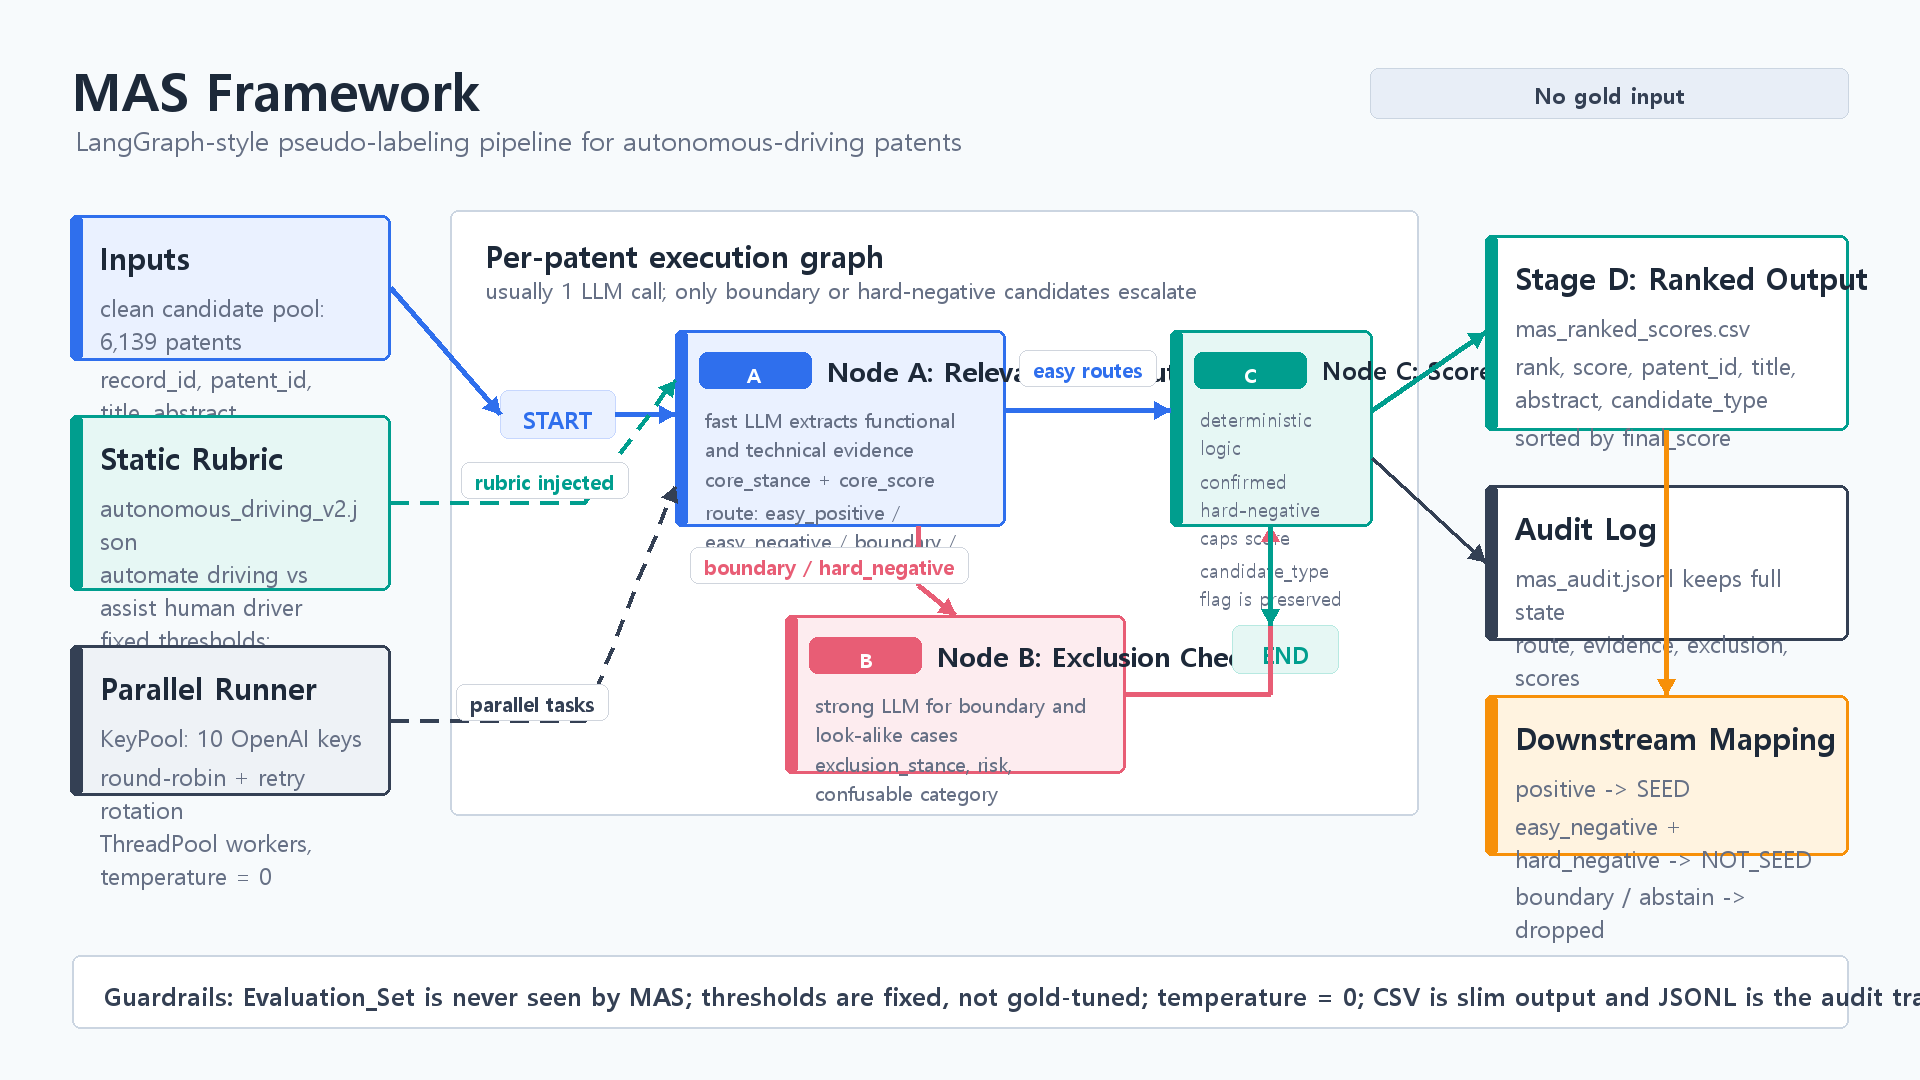
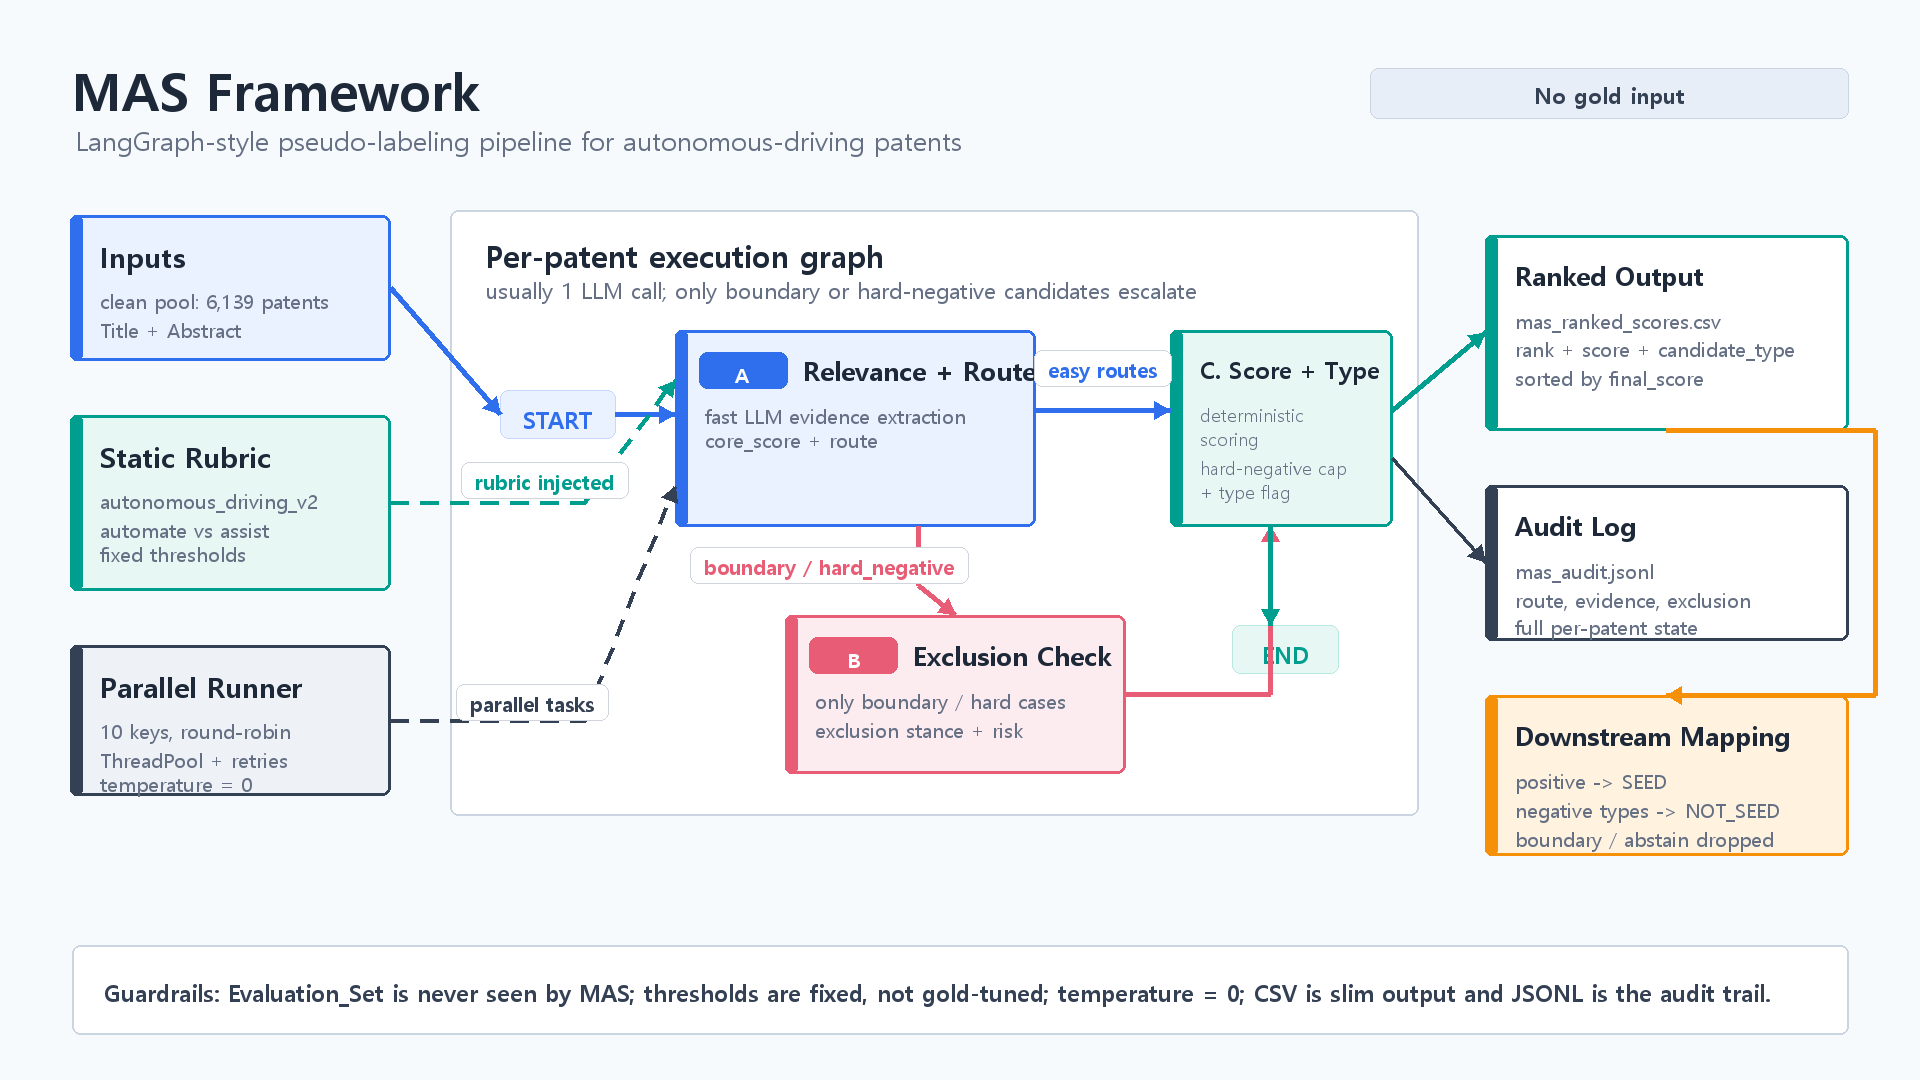
calibrate_eval for unified models + notebook calibration cell
- calibrate_eval rebuilt for the unified experiment: loads scibert_{snorkel_uni,
  mas_uni}, rebuilds val split via from_labeled_all + default assemble, tunes
  threshold on val, re-reports gold @user.5 vs @user with auc_seed_vs_hard + ROC/PR
- notebook: add cell 8 calibration (no retrain)

diff --git a/figures/generate_framework_figures.py b/figures/generate_framework_figures.py
@@ -254,25 +254,22 @@ def build_overall():
 
     # Input stack
     card(draw, (70, 210, 390, 352), "Candidate Pool", [
-        "Training_Set.csv - 6,195 patents",
-        "unlabeled Title + Abstract",
+        "Training_Set.csv",
+        "6,195 unlabeled patents",
     ], COLORS["data"], fill=COLORS["blue_soft"], title_size=27)
     card(draw, (70, 410, 390, 552), "Gold Benchmark", [
-        "Evaluation_Set.csv - 1,208 rows",
-        "313 SEED / 895 NOT_SEED",
-        "test only",
+        "Evaluation_Set.csv",
+        "1,208 gold rows - test only",
     ], COLORS["eval"], fill=COLORS["violet_soft"], title_size=27)
     card(draw, (70, 610, 390, 752), "OOD Negatives", [
-        "5 other domains - 6,296 rows",
-        "fixed anti-seed pool",
-        "computer vision = hard negative",
+        "5 domains, 6,296 rows",
+        "fixed NOT_SEED pool",
     ], COLORS["guard"], fill=COLORS["gray_soft"], title_size=27)
 
     card(draw, (430, 350, 730, 572), "Preprocess", [
-        "normalize title + abstract",
-        "text-leakage Jaccard check",
-        "drop 56 leaking train patents",
-        "clean candidate pool = 6,139",
+        "Title + Abstract only",
+        "remove 56 leakage cases",
+        "clean pool = 6,139",
     ], COLORS["data"], fill="#FFFFFF")
 
     # Labeling lanes
@@ -280,21 +277,18 @@ def build_overall():
     draw.text((810, 230), "Two pseudo-labeling arms", font=font(26, "bold"), fill=COLORS["ink"])
     draw.text((810, 265), "same candidate pool, different labeler", font=font(20), fill=COLORS["muted"])
     card(draw, (820, 315, 1148, 477), "Snorkel Arm", [
-        "labeling functions",
-        "LabelModel",
-        "snorkel_label: 1 / 0 / ABSTAIN",
+        "LFs + LabelModel",
+        "label: 1 / 0 / ABSTAIN",
     ], COLORS["snorkel"], fill=COLORS["pink_soft"], label="A", title_size=27, body_size=20)
     card(draw, (820, 560, 1148, 722), "MAS Arm", [
         "rubric-guided agents",
         "score + candidate_type",
-        "positive / negative / boundary / abstain",
     ], COLORS["mas"], fill=COLORS["green_soft"], label="B", title_size=27, body_size=20)
 
     card(draw, (1235, 384, 1538, 640), "Shared Train Assembly", [
-        "positives: arm-labeled SEED",
-        "in-pool negatives: NOT_SEED / hard_negative",
-        "OOD negatives: fixed pool",
-        "equal-N and hard-negative ablation",
+        "arm positives + in-pool negatives",
+        "fixed OOD negatives",
+        "equal-N + hard-negative ablation",
     ], COLORS["downstream"], fill=COLORS["orange_soft"], title_size=26, body_size=20)
 
     card(draw, (1610, 320, 1848, 480), "Fixed Downstream", [
@@ -316,9 +310,11 @@ def build_overall():
     arrow(draw, (1148, 641), (1235, 552), COLORS["mas"])
     arrow(draw, (1538, 512), (1610, 400), COLORS["downstream"])
     arrow(draw, (1729, 480), (1729, 610), COLORS["downstream"])
-    poly_arrow(draw, [(390, 681), (1185, 681), (1235, 590)], COLORS["guard"], label="fixed negatives", label_xy=(535, 650))
-    poly_arrow(draw, [(390, 481), (1540, 830), (1729, 770)], COLORS["eval"], width=4, dashed=True,
-               label="gold never enters labelers", label_xy=(850, 825))
+    poly_arrow(draw, [(390, 681), (760, 681), (760, 805), (1185, 805), (1235, 590)],
+               COLORS["guard"], label="fixed negatives", label_xy=(535, 775))
+    poly_arrow(draw, [(390, 481), (505, 865), (1540, 865), (1729, 770)],
+               COLORS["eval"], width=4, dashed=True,
+               label="gold never enters labelers", label_xy=(840, 858))
 
     footer_band(
         draw,
@@ -337,19 +333,18 @@ def build_mas():
     )
 
     card(draw, (70, 215, 390, 360), "Inputs", [
-        "clean candidate pool: 6,139 patents",
-        "record_id, patent_id, title, abstract",
-        "domain = autonomous_driving",
+        "clean pool: 6,139 patents",
+        "Title + Abstract",
     ], COLORS["data"], fill=COLORS["blue_soft"])
     card(draw, (70, 415, 390, 590), "Static Rubric", [
-        "autonomous_driving_v2.json",
-        "automate driving vs assist human driver",
-        "fixed thresholds: TAU_POS .75, TAU_NEG .25, EX_CAP .40",
+        "autonomous_driving_v2",
+        "automate vs assist",
+        "fixed thresholds",
     ], COLORS["mas"], fill=COLORS["green_soft"])
     card(draw, (70, 645, 390, 795), "Parallel Runner", [
-        "KeyPool: 10 OpenAI keys",
-        "round-robin + retry rotation",
-        "ThreadPool workers, temperature = 0",
+        "10 keys, round-robin",
+        "ThreadPool + retries",
+        "temperature = 0",
     ], COLORS["guard"], fill=COLORS["gray_soft"])
 
     rounded(draw, (450, 210, 1418, 815), fill="#FFFFFF", outline="#CBD5E1", width=2)
@@ -357,46 +352,45 @@ def build_mas():
     draw.text((485, 275), "usually 1 LLM call; only boundary or hard-negative candidates escalate", font=font(22), fill=COLORS["muted"])
 
     pill(draw, (500, 390, 615, 438), "START", COLORS["blue_soft"], COLORS["data"], "#C7D7FE", 23)
-    card(draw, (675, 330, 1005, 526), "Node A: Relevance & Route", [
-        "fast LLM extracts functional and technical evidence",
-        "core_stance + core_score",
-        "route: easy_positive / easy_negative / boundary / hard_negative / abstain",
-    ], COLORS["data"], fill=COLORS["blue_soft"], label="A", title_size=27, body_size=20)
-    card(draw, (785, 615, 1125, 773), "Node B: Exclusion Check", [
-        "strong LLM for boundary and look-alike cases",
-        "exclusion_stance, risk, confusable category",
-    ], COLORS["snorkel"], fill=COLORS["pink_soft"], label="B", title_size=27, body_size=20)
-    card(draw, (1170, 330, 1372, 526), "Node C: Score & Type", [
-        "deterministic logic",
-        "confirmed hard-negative caps score",
-        "candidate_type flag is preserved",
-    ], COLORS["mas"], fill=COLORS["green_soft"], label="C", title_size=25, body_size=19)
+    card(draw, (675, 330, 1035, 526), "Relevance + Route", [
+        "fast LLM evidence extraction",
+        "core_score + route",
+    ], COLORS["data"], fill=COLORS["blue_soft"], label="A", title_size=26, body_size=20)
+    card(draw, (785, 615, 1125, 773), "Exclusion Check", [
+        "only boundary / hard cases",
+        "exclusion stance + risk",
+    ], COLORS["snorkel"], fill=COLORS["pink_soft"], label="B", title_size=26, body_size=20)
+    card(draw, (1170, 330, 1392, 526), "C. Score + Type", [
+        "deterministic scoring",
+        "hard-negative cap + type flag",
+    ], COLORS["mas"], fill=COLORS["green_soft"], title_size=24, body_size=18)
     pill(draw, (1232, 625, 1338, 673), "END", COLORS["green_soft"], COLORS["mas"], "#B7E9E1", 23)
 
     arrow(draw, (615, 414), (675, 414), COLORS["data"])
-    arrow(draw, (1005, 410), (1170, 410), COLORS["data"], label="easy routes", label_offset=(0, -42))
+    arrow(draw, (1035, 410), (1170, 410), COLORS["data"], label="easy routes", label_offset=(0, -42))
     poly_arrow(draw, [(918, 526), (918, 585), (955, 615)], COLORS["snorkel"], label="boundary / hard_negative", label_xy=(704, 555))
     poly_arrow(draw, [(1125, 694), (1270, 694), (1270, 526)], COLORS["snorkel"])
     arrow(draw, (1270, 526), (1270, 625), COLORS["mas"])
 
-    card(draw, (1485, 235, 1848, 430), "Stage D: Ranked Output", [
+    card(draw, (1485, 235, 1848, 430), "Ranked Output", [
         "mas_ranked_scores.csv",
-        "rank, score, patent_id, title, abstract, candidate_type",
+        "rank + score + candidate_type",
         "sorted by final_score",
-    ], COLORS["mas"], fill="#FFFFFF")
+    ], COLORS["mas"], fill="#FFFFFF", title_size=26, body_size=20)
     card(draw, (1485, 485, 1848, 640), "Audit Log", [
-        "mas_audit.jsonl keeps full state",
-        "route, evidence, exclusion, scores",
-    ], COLORS["guard"], fill="#FFFFFF")
+        "mas_audit.jsonl",
+        "route, evidence, exclusion",
+        "full per-patent state",
+    ], COLORS["guard"], fill="#FFFFFF", title_size=26, body_size=20)
     card(draw, (1485, 695, 1848, 855), "Downstream Mapping", [
         "positive -> SEED",
-        "easy_negative + hard_negative -> NOT_SEED",
-        "boundary / abstain -> dropped",
-    ], COLORS["downstream"], fill=COLORS["orange_soft"])
+        "negative types -> NOT_SEED",
+        "boundary / abstain dropped",
+    ], COLORS["downstream"], fill=COLORS["orange_soft"], title_size=26, body_size=20)
 
-    arrow(draw, (1372, 410), (1485, 332), COLORS["mas"])
-    arrow(draw, (1372, 458), (1485, 562), COLORS["guard"], width=4)
-    arrow(draw, (1666, 430), (1666, 695), COLORS["downstream"])
+    arrow(draw, (1392, 410), (1485, 332), COLORS["mas"])
+    arrow(draw, (1392, 458), (1485, 562), COLORS["guard"], width=4)
+    poly_arrow(draw, [(1666, 430), (1875, 430), (1875, 695), (1666, 695)], COLORS["downstream"])
 
     # Rubric and runner influence arrows
     poly_arrow(draw, [(390, 502), (585, 502), (675, 380)], COLORS["mas"], width=4, dashed=True,

diff --git a/scripts/calibrate_eval.py b/scripts/calibrate_eval.py
@@ -1,12 +1,13 @@
-"""Threshold calibration + ROC/PR/score diagnostics for the trained models.
+"""Threshold calibration + ROC/PR diagnostics for the trained UNIFIED models.
 
-NO retraining — loads the saved models in outputs/scibert_{arm}. The 0.5 threshold
-is badly placed (easy OOD negatives crush recall); we pick the macro-F1-optimal
-threshold on the VALIDATION split (never the gold set) and re-report on gold.
+NO retraining — loads outputs/scibert_{snorkel_uni,mas_uni}. The 0.5 threshold is
+conservative (recall suppressed); we pick the macro-F1-optimal threshold on the
+VALIDATION split (never the gold set) and re-report on gold.
 
   python -m scripts.calibrate_eval
 
-Run it in the SAME Colab session that trained the models (so outputs/ still exists).
+Run in a session where the models exist (restore from Drive first if needed). Needs the
+data prep (build_dataset, build_candidate_all, run_snorkel) so the val split can be rebuilt.
 """
 from __future__ import annotations
 import json
@@ -26,16 +27,18 @@ from src.downstream.train import TrainCfg
 from src.downstream.evaluate import predict_proba, tune_threshold, report_from_probs, print_report
 from src.downstream import plots
 
-LABELED = {"snorkel": C.PROCESSED_DIR / "snorkel_labeled_pool.csv",
-           "mas": C.ROOT / "DataSet" / "mas" / "mas_ranked_scores.csv"}
+# (model-dir suffix, arm, unified-labeled file)
+ARMS = [
+    ("snorkel_uni", "snorkel", C.PROCESSED_DIR / "snorkel_labeled_all.csv"),
+    ("mas_uni", "mas", C.ROOT / "DataSet" / "mas" / "mas_ranked_scores.csv"),
+]
 
 
-def rebuild_val_split(arm: str, cfg: TrainCfg) -> pd.DataFrame:
-    """Recreate the exact validation split train.py used (same shuffles/seed)."""
-    negatives = pd.read_csv(C.NEG_CLEAN_CSV, dtype=str).fillna("")
-    labeled = pd.read_csv(LABELED[arm], dtype=str).fillna("")
-    part = B.from_snorkel(labeled) if arm == "snorkel" else B.from_mas(labeled, include_hard_neg=True)
-    train_df = B.assemble(part, negatives)                       # default seed=42
+def rebuild_val_split(arm: str, labeled_path, cfg: TrainCfg) -> pd.DataFrame:
+    """Recreate the exact validation split the unified run used (from_labeled_all + default assemble)."""
+    labeled = pd.read_csv(labeled_path, dtype=str).fillna("")
+    part, ood = B.from_labeled_all(labeled, arm)
+    train_df = B.assemble(part, ood)                              # default (all-OOD), seed=42 — matches --unified --tag uni
     train_df["label"] = train_df["label"].astype(int)
     df = train_df.sample(frac=1.0, random_state=cfg.seed).reset_index(drop=True)
     n_val = int(len(df) * cfg.val_frac)
@@ -46,33 +49,35 @@ def main():
     cfg = TrainCfg()
     eval_df = pd.read_csv(C.EVAL_PROCESSED_CSV, dtype=str).fillna("")
     eval_df["label"] = eval_df["label"].astype(int)
-    yv_eval = eval_df["label"].values
+    y = eval_df["label"].values
 
     curves, summary = {}, {}
-    for arm in ["snorkel", "mas"]:
-        model_dir = str(C.ROOT / "outputs" / f"scibert_{arm}")
-        # 1) tune threshold on validation
-        val = rebuild_val_split(arm, cfg)
+    for name, arm, labeled_path in ARMS:
+        model_dir = str(C.ROOT / "outputs" / f"scibert_{name}")
+        if not Path(model_dir, "config.json").exists():
+            print(f"[{name}] model not found at {model_dir} — skip"); continue
+        val = rebuild_val_split(arm, labeled_path, cfg)
         pv = predict_proba(model_dir, val["text"].tolist(), max_len=cfg.max_len)
         thr, vf1 = tune_threshold(val["label"].values, pv)
-        # 2) gold probs + reports at 0.5 and tuned threshold
         pe = predict_proba(model_dir, eval_df["text"].tolist(), max_len=cfg.max_len)
-        r_default = report_from_probs(yv_eval, pe, eval_df, threshold=0.5)
-        r_tuned = report_from_probs(yv_eval, pe, eval_df, threshold=thr)
-        print_report(r_default, arm=f"{arm} @0.5")
-        print_report(r_tuned, arm=f"{arm} @tuned={thr:.2f} (val F1={vf1:.3f})")
-        curves[arm] = (yv_eval, pe)
-        summary[arm] = {"tuned_threshold": thr, "default": r_default, "tuned": r_tuned}
-        plots.score_hist(arm, yv_eval, pe)
+        r_default = report_from_probs(y, pe, eval_df, threshold=0.5)
+        r_tuned = report_from_probs(y, pe, eval_df, threshold=thr)
+        print_report(r_default, arm=f"{name} @0.5")
+        print_report(r_tuned, arm=f"{name} @tuned={thr:.2f} (val F1={vf1:.3f})")
+        curves[name] = (y, pe)
+        summary[name] = {"tuned_threshold": thr, "default": r_default, "tuned": r_tuned}
+        plots.score_hist(name, y, pe)
 
-    plots.roc_pr(curves)
-
-    print("\n" + "=" * 64)
-    print(f"{'arm':8s} {'AUC':>6s} {'AP':>6s} | {'F1@0.5':>7s} {'R@0.5':>6s} | {'F1@tuned':>9s} {'R@tuned':>8s}")
-    for arm, s in summary.items():
+    if curves:
+        plots.roc_pr(curves)
+    print("\n" + "=" * 78)
+    print(f"{'model':12s} {'AUC':>6s} {'AUC_hard':>9s} | {'F1@0.5':>7s} {'R@0.5':>6s} | "
+          f"{'thr':>5s} {'F1@tuned':>9s} {'R@tuned':>8s}")
+    for name, s in summary.items():
         d, t = s["default"], s["tuned"]
-        print(f"{arm:8s} {d['auc']:.3f} {d['average_precision']:.3f} | "
-              f"{d['macro_f1']:.3f} {d['recall']:.3f} | {t['macro_f1']:.3f} {t['recall']:.3f}")
+        print(f"{name:12s} {d['auc']:.3f} {d.get('auc_seed_vs_hard', float('nan')):.3f}     | "
+              f"{d['macro_f1']:.3f} {d['recall']:.3f} | {s['tuned_threshold']:.2f}  "
+              f"{t['macro_f1']:.3f}    {t['recall']:.3f}")
     with open(C.ROOT / "outputs" / "metrics_calibrated.json", "w", encoding="utf-8") as f:
         json.dump(summary, f, indent=2)
     print("\nsaved -> outputs/metrics_calibrated.json, roc_pr.png, scorehist_*.png")